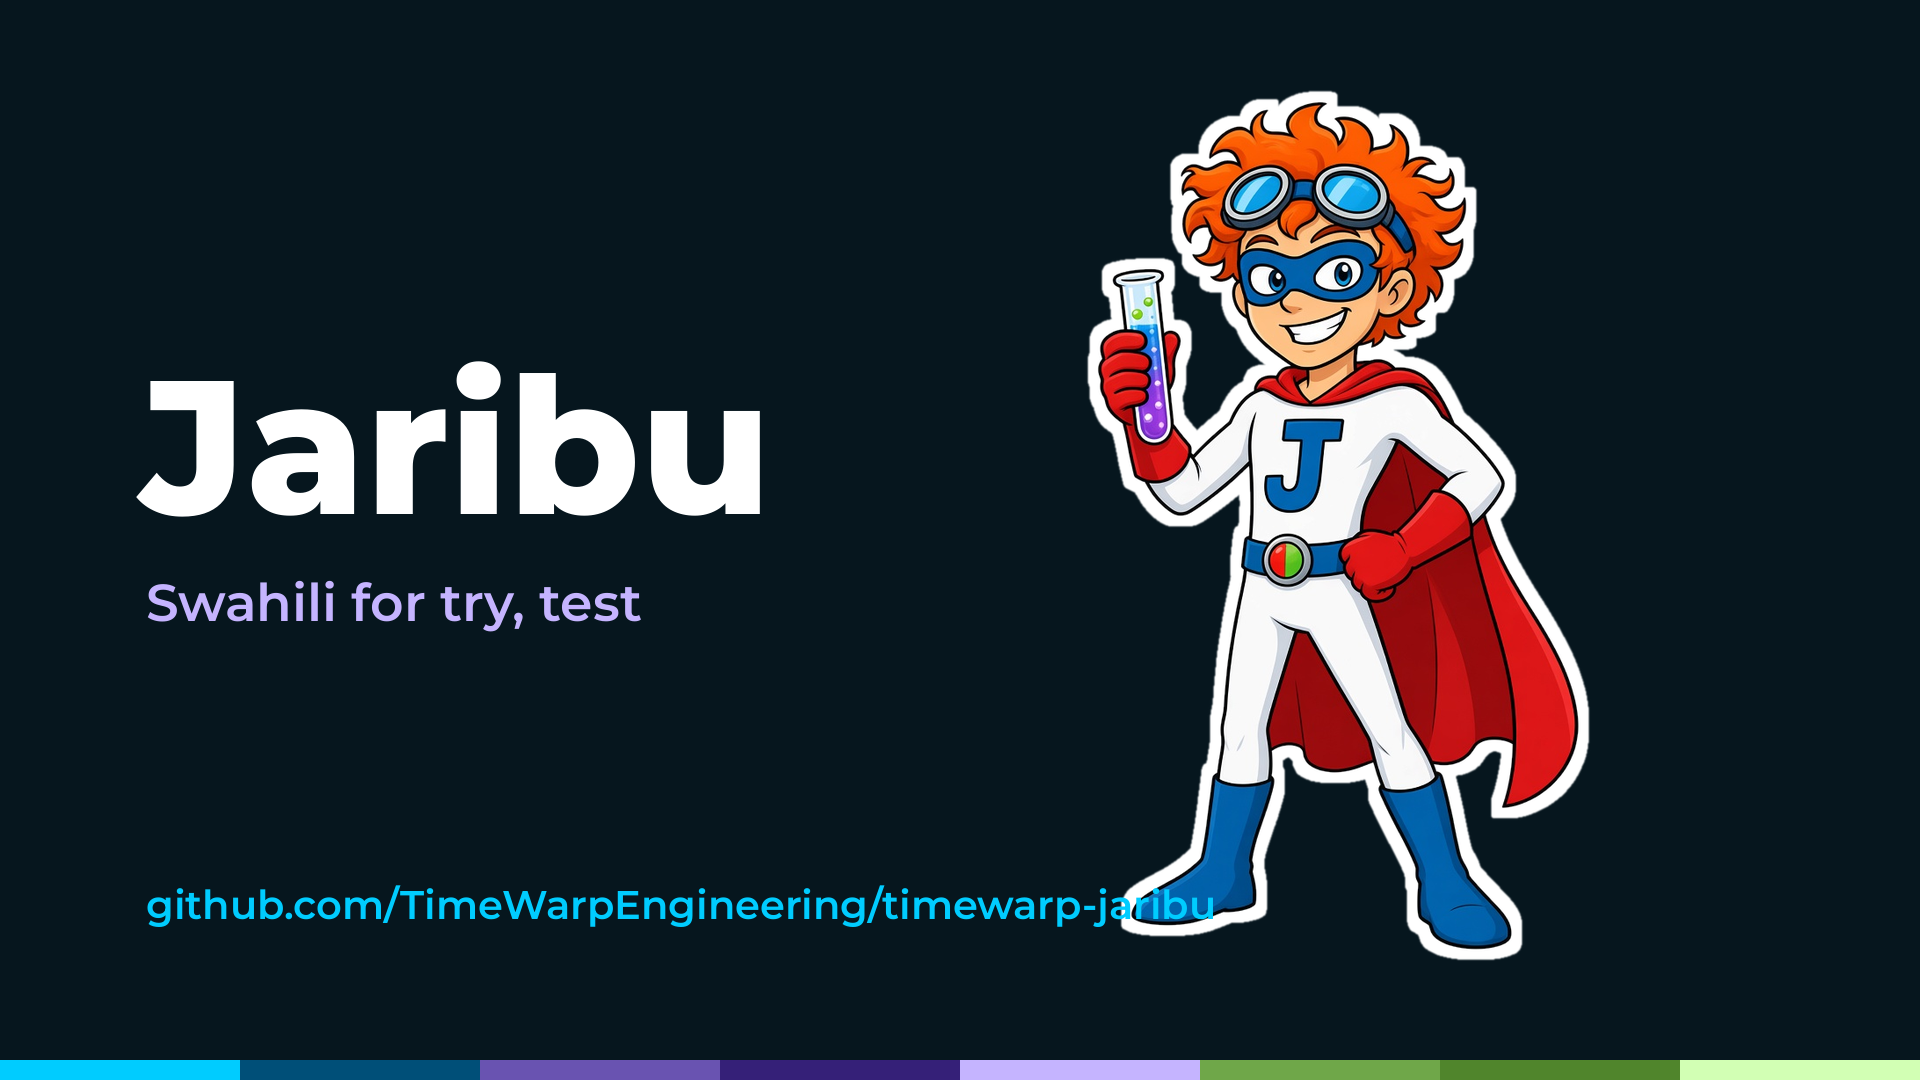
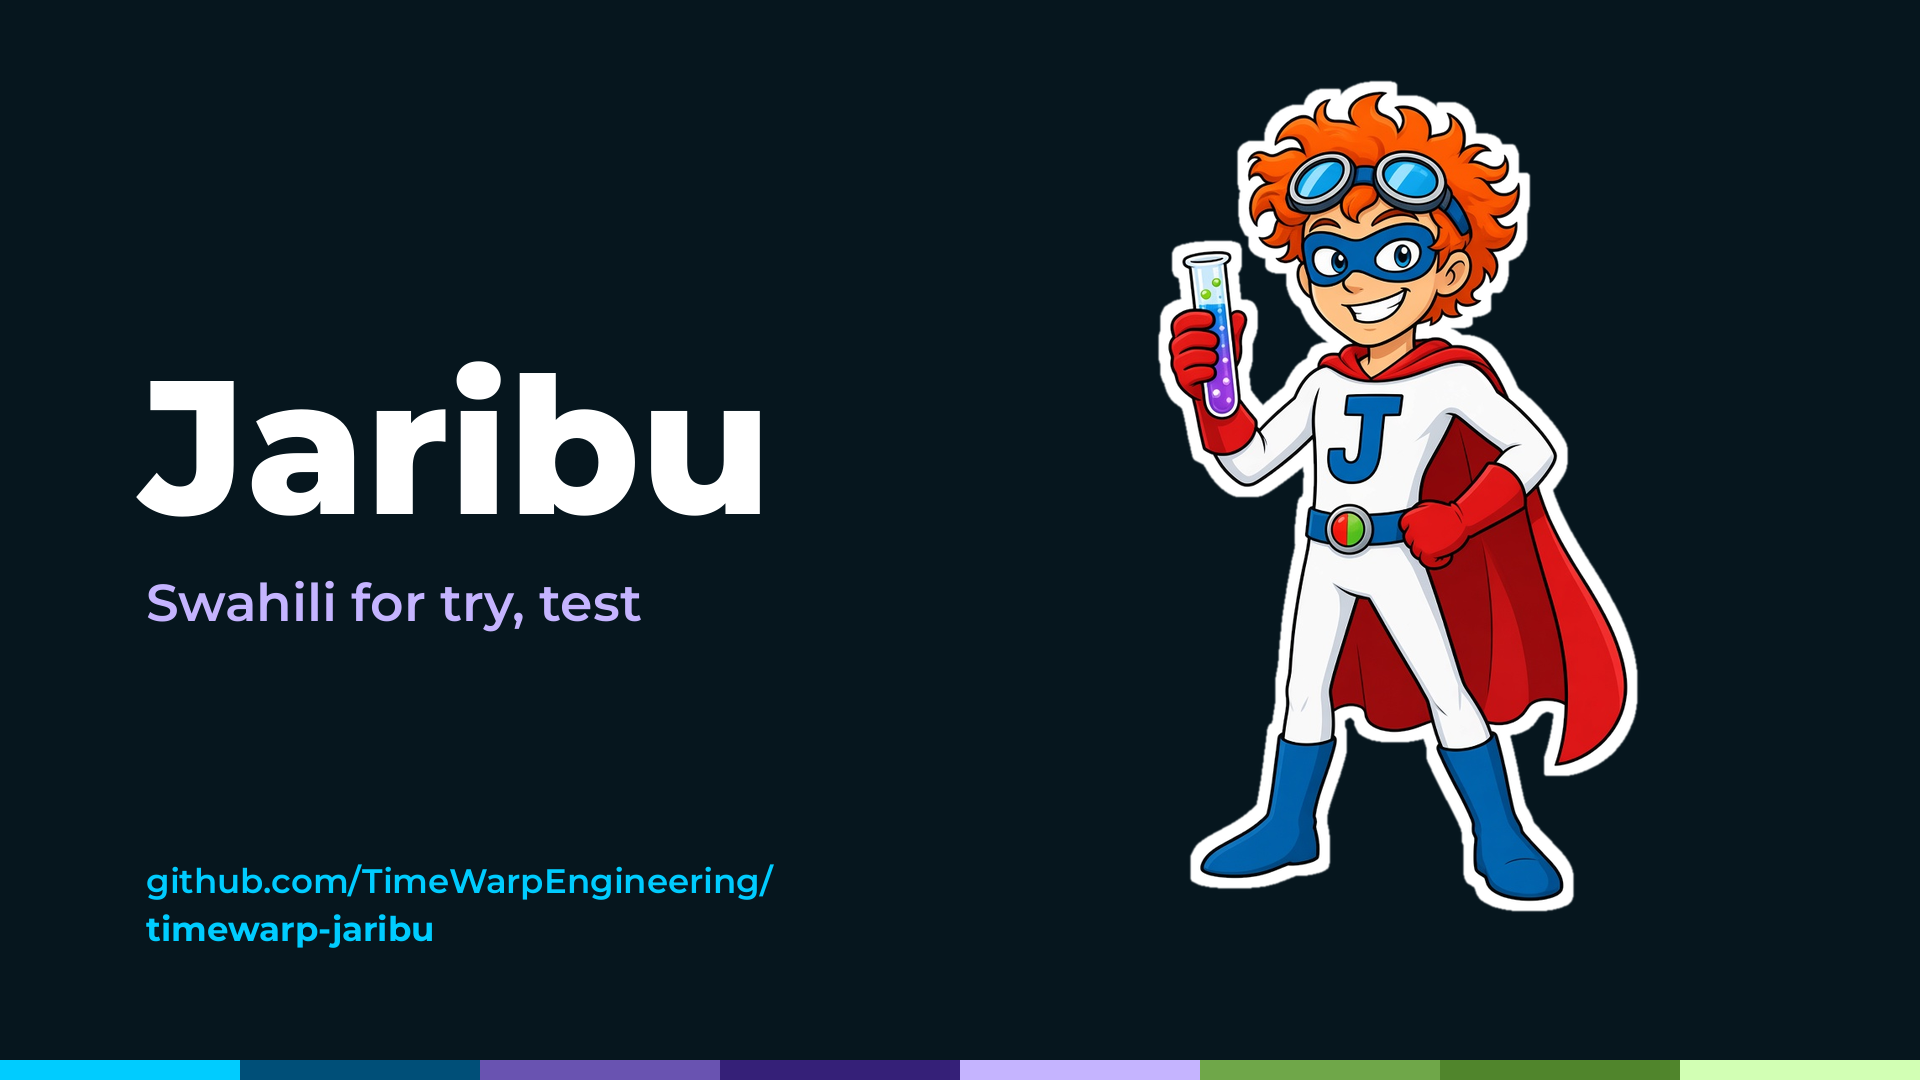
fix: replace the Jaribu end card so the repo URL clears the hero
Masoko approved the regenerated kit card. The repo still shipped the
still whose URL ran into the sticker, so this copies that corrected
file in unchanged.

Changed region(s): [[0.0625, 0.0611, 0.875, 0.8861]]

diff --git a/kanban/to-do/037-create-jaribu-mascot/task.md b/kanban/to-do/037-create-jaribu-mascot/task.md
@@ -12,6 +12,8 @@ Acceptance:
 - Mark checklist items 1 through 5 done. Leave Steven's approval of the final art unticked.
 - Change only `assets/mascot/`, `readme.md`, and this task file, unless `ganda repo audit` requires a fix.
 
[1 lines of base64/hex data omitted]
+
 ## Description
 
 Create **Jaribu**, the original TimeWarp mascot hero for this repo.  Jaribu means *try / test ("experimentation and validation")* in Swahili, and the hero is themed on that meaning.
@@ -38,6 +40,10 @@ Proposed look (from the roster; a proposal, adjust with Steven): Lab-goggle hero
 - [x] Use in the OG card (1200x630, code-drawn text)
 - [x] Use in the video end card
 - [ ] Steven approves the final art
+
+## Review
+
+- Round 2: Blocked — open M1
 
 ## Notes
 
@@ -66,6 +72,8 @@ The final art and derived cards are already built.  Do not regenerate or redraw 
 - Review oracle: Claude Code (claude-opus-5-5), effort 1, roster general, round 1. Session id not exposed. Blocked on an operator decision (M1). — 2026-10-23
 - Review oracle: review by reviewer-claude (claude, model claude-opus-5-5), session not reported, max-turns 80 — 2026-10-23T07:35:02Z
 - Review oracle: Claude Code (claude-opus-5-5), effort 2, roster general, round 2. Session id not exposed. Blocked: fix pass needed for M1 (the end-card re-copy). — 2026-10-23
+- Review oracle: review by reviewer-claude (claude, model claude-opus-5-5), session not reported, max-turns 120 — 2026-10-23T07:41:30Z
+- Implement-fix-2: grok session `01a167b5-3282-7693-9b5a-9d15ec45c93a` (2026-10-23)
 
 ## Results
 
@@ -77,7 +85,7 @@ Copied the finished Jaribu kit into `assets/mascot/` byte for byte and placed th
[5 lines of base64/hex data omitted]
 - `readme.md` — two lines added at the top (centered hero, then a blank line). Every previous line is unchanged. Chest letter in the art is J.
 
 **Checks**
@@ -102,6 +110,14 @@ Copied the finished Jaribu kit into `assets/mascot/` byte for byte and placed th
 - The other four assets still match the kit. README and goal restatement are unchanged, and there is no misread.
 - Paths: `review/round-2/general.md`, `review/round-2/merged.md` (live ledger).
 
+**Fix pass (implement-fix-2)**
+
[1 lines of base64/hex data omitted]
+- The URL is two lines on the left (`github.com/TimeWarpEngineering/` and `timewarp-jaribu`) and does not meet the sticker or the boots. The chest letter is still J. The other four assets still match the kit. `readme.md` was not edited.
+- Live ledger counts after this pass: bug 0 open, 1 fixed, 0 wontfix. Disposition is not written; the host re-reviews next.
+- The earlier park (operator decision on the overlapping card) is resolved by Masoko's option (a) and this re-copy.
+- `ganda repo audit` on this pass: Passed 31, Failed 0, Skipped 1 (`self-hosted`, public repository). No `--fix` edits. Docs and assets only, so `./bin/dev test` was not run.
+
 ### How to validate
 
 **Smoke**
@@ -113,6 +129,8 @@ file assets/mascot/jaribu-hero.png \
   assets/mascot/jaribu-og-card.png \
   assets/mascot/jaribu-end-card.png
 head -n 3 readme.md
+sha256sum assets/mascot/jaribu-end-card.png
+cmp /home/steve/masoko/mascot-kit/jaribu-end-card.png assets/mascot/jaribu-end-card.png
 python3 - <<'PY'
 import struct, zlib
 from pathlib import Path
@@ -181,15 +199,13 @@ PY
 **Expect**
 
 - `file` reports `jaribu-hero.png` and `jaribu-hero-dark.png` as 1024x1024 RGB, `jaribu-hero-transparent.png` as 1024x1024 RGBA, `jaribu-og-card.png` as 1200x630 RGB, and `jaribu-end-card.png` as 1920x1080 RGB.
[1 lines of base64/hex data omitted]
+- `cmp` of the end card against the kit is silent. On a machine that still has the kit, the same is true for the other four names.
 - `head` prints the centered `assets/mascot/jaribu-hero.png` image, a blank line, then `# TimeWarp.Jaribu`.
 - The Python corner line for `jaribu-hero.png` is `(255, 255, 255)`.
 - The Python corner line for `jaribu-hero-dark.png` is `(6, 22, 30)` (`#06161E`).
 - The Python corner line for `jaribu-hero-transparent.png` ends in alpha `0`.
 - On a machine that still has the kit, `cmp /home/steve/masoko/mascot-kit/<file> assets/mascot/<file>` is silent for all five names.
-
-## Blocked
-
-2026-10-23: operator decision needed: Masoko/Steven to choose between fixing the end-card URL overlap in the external mascot-kit build.py and re-copying it, or accepting the card as-is (task forbids regenerating, so no fix pass can resolve it)
 
 ## Operator decision (Masoko, 2026-10-23): review M1 end-card URL overlap
 

diff --git a/kanban/to-do/037-create-jaribu-mascot/review/round-2/merged.md b/kanban/to-do/037-create-jaribu-mascot/review/round-2/merged.md
@@ -6,18 +6,18 @@
 
 | Severity | open | fixed | wontfix |
 |----------|------|-------|---------|
-| bug | 1 | 0 | 0 |
+| bug | 0 | 1 | 0 |
 | suggestion | 0 | 0 | 0 |
 | nit | 0 | 0 | 0 |
 
 ## Issues
 
-### M1 — Severity: bug — Status: open
+### M1 — Severity: bug — Status: fixed
 - File: assets/mascot/jaribu-end-card.png
 - Description: The repo end card is still the round-1 file (SHA-256 `236ae90b…7bba`), whose URL overlaps the hero. The operator chose option (a), and the corrected card is ready in the kit at `/home/steve/masoko/mascot-kit/jaribu-end-card.png` (SHA-256 `7c4d7674…40a6`). I checked it visually and it is clean. It has not been copied in yet (`cmp` differs at byte 47).
 - Suggestion: Fix pass on this id: copy the kit end card over the repo file byte for byte and change nothing else. Update the end-card SHA-256 in Results, then commit.
 - Source: general (carried from round 1)
-- Disposition notes: Operator decision (Masoko, 2026-10-23): fix it, allowed re-copy on this id. This is now an ordinary fix-pass item and no longer needs an operator call.
[1 lines of base64/hex data omitted]
 
 ## Duplicates / conflicts
 
